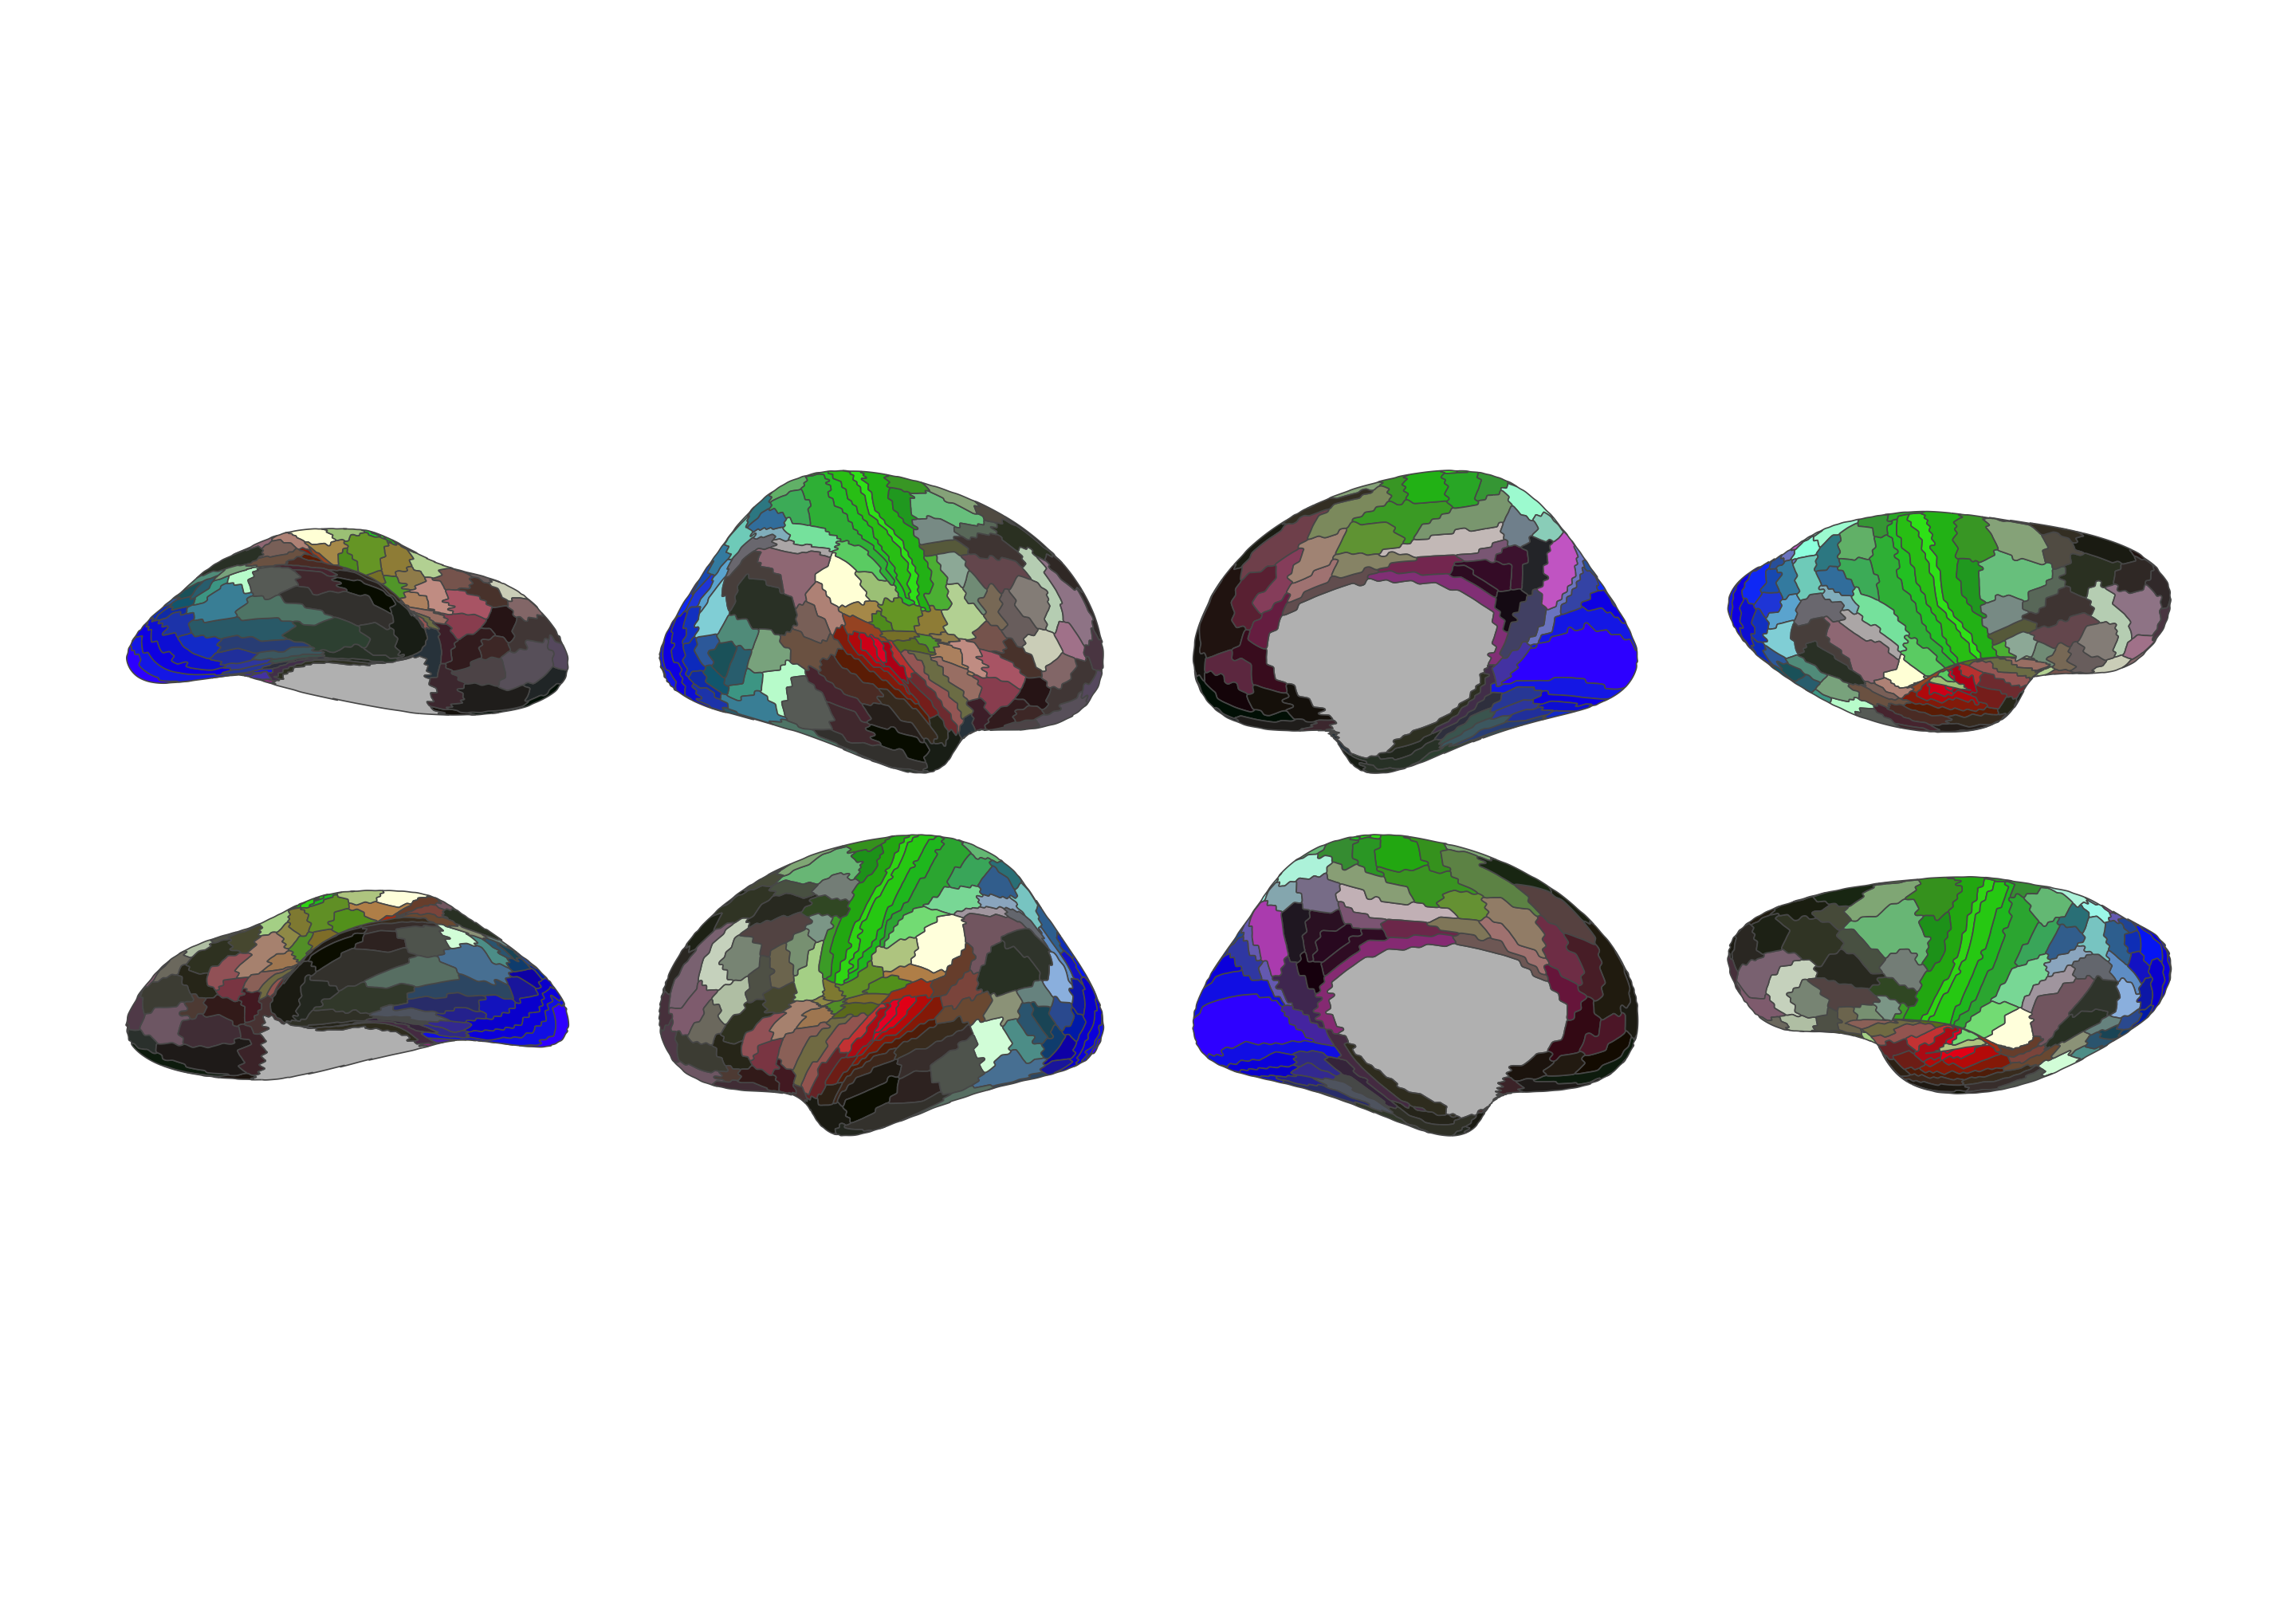
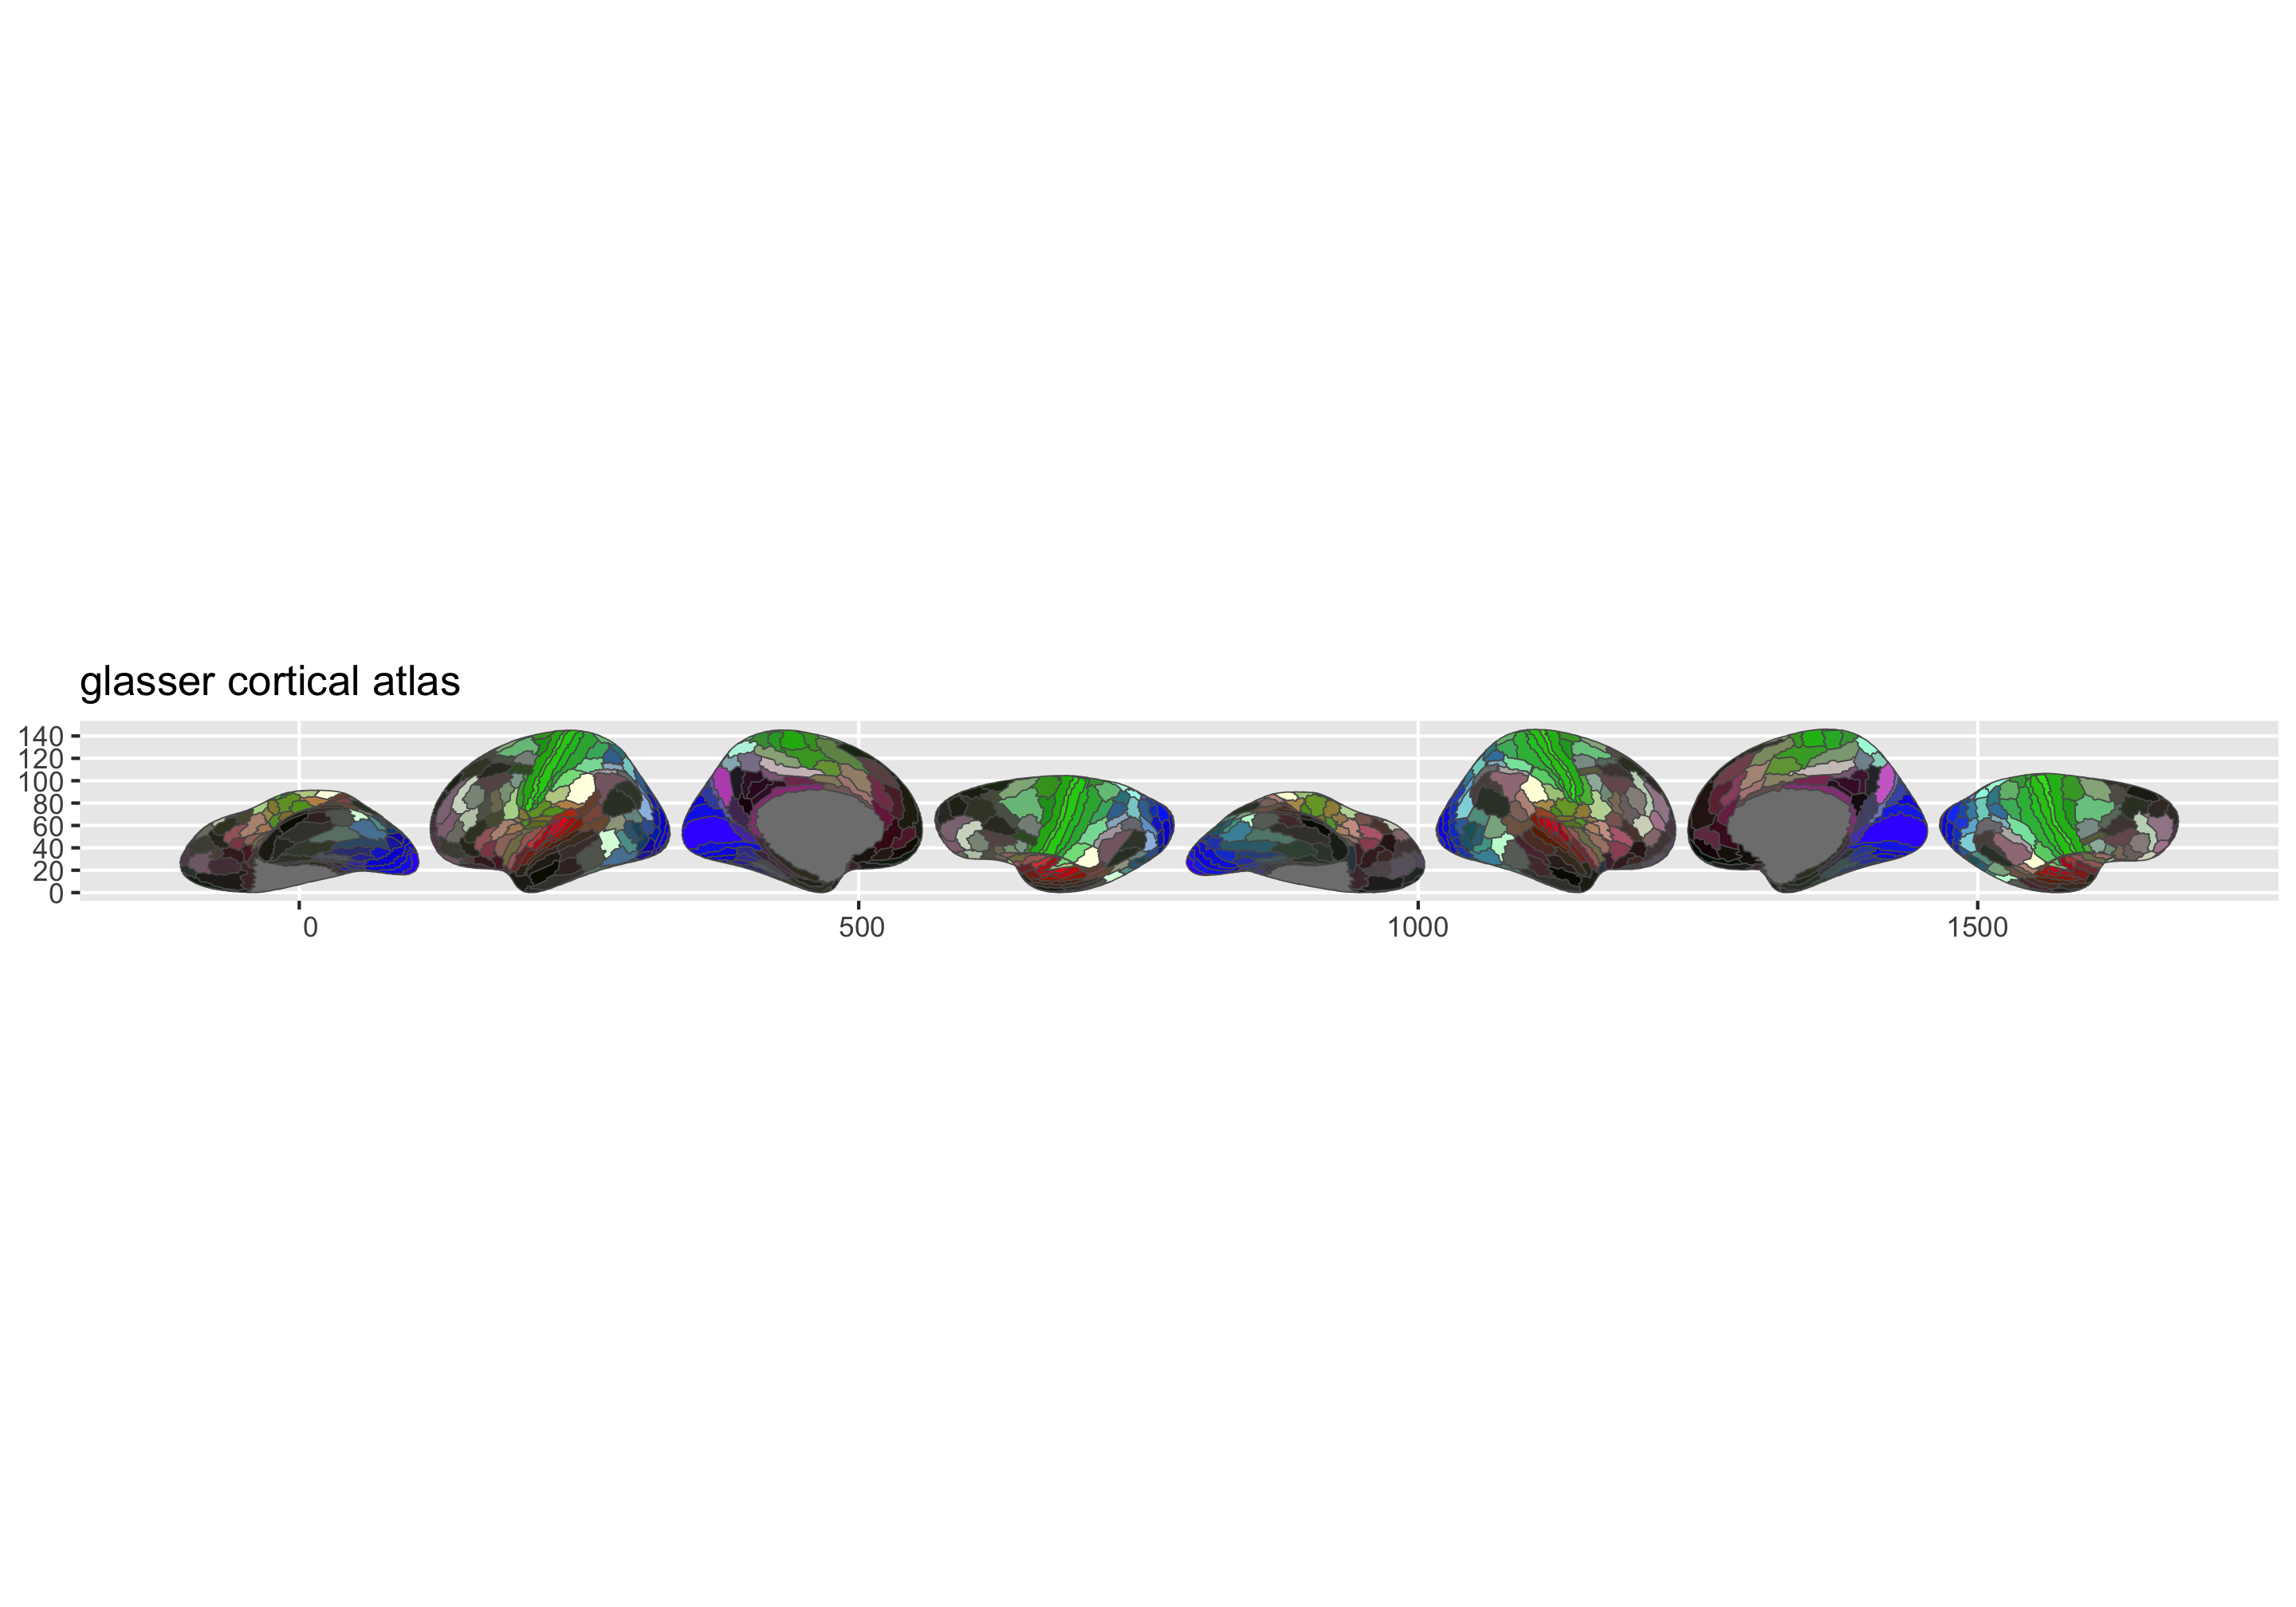
Deploying to gh-pages from @ ggsegverse/ggsegGlasser@c4f44cbb4502c0351be99adf17538b2d463720ca 🚀

Changed region(s): [[0.0, 0.2812, 1.0, 0.7188]]

diff --git a/index.html b/index.html
@@ -96,17 +96,8 @@
 <div class="sourceCode" id="cb3"><pre class="downlit sourceCode r">
 <code class="sourceCode R"><span><span class="kw"><a href="https://rdrr.io/r/base/library.html" class="external-link">library</a></span><span class="op">(</span><span class="va"><a href="https://ggsegverse.github.io/ggseg/" class="external-link">ggseg</a></span><span class="op">)</span></span>
 <span><span class="kw"><a href="https://rdrr.io/r/base/library.html" class="external-link">library</a></span><span class="op">(</span><span class="va"><a href="https://github.com/ggsegverse/ggsegGlasser" class="external-link">ggsegGlasser</a></span><span class="op">)</span></span>
-<span><span class="kw"><a href="https://rdrr.io/r/base/library.html" class="external-link">library</a></span><span class="op">(</span><span class="va"><a href="https://ggplot2.tidyverse.org" class="external-link">ggplot2</a></span><span class="op">)</span></span>
 <span></span>
-<span><span class="fu"><a href="https://ggplot2.tidyverse.org/reference/ggplot.html" class="external-link">ggplot</a></span><span class="op">(</span><span class="op">)</span> <span class="op">+</span></span>
-<span>  <span class="fu"><a href="https://ggsegverse.github.io/ggseg/reference/ggbrain.html" class="external-link">geom_brain</a></span><span class="op">(</span></span>
-<span>    atlas <span class="op">=</span> <span class="fu"><a href="reference/glasser.html">glasser</a></span><span class="op">(</span><span class="op">)</span>,</span>
-<span>    mapping <span class="op">=</span> <span class="fu"><a href="https://ggplot2.tidyverse.org/reference/aes.html" class="external-link">aes</a></span><span class="op">(</span>fill <span class="op">=</span> <span class="va">label</span><span class="op">)</span>,</span>
-<span>    position <span class="op">=</span> <span class="fu"><a href="https://ggsegverse.github.io/ggseg/reference/position_brain.html" class="external-link">position_brain</a></span><span class="op">(</span><span class="va">hemi</span> <span class="op">~</span> <span class="va">view</span><span class="op">)</span>,</span>
-<span>    show.legend <span class="op">=</span> <span class="cn">FALSE</span></span>
-<span>  <span class="op">)</span> <span class="op">+</span></span>
-<span>  <span class="fu"><a href="https://ggplot2.tidyverse.org/reference/scale_manual.html" class="external-link">scale_fill_manual</a></span><span class="op">(</span>values <span class="op">=</span> <span class="fu"><a href="reference/glasser.html">glasser</a></span><span class="op">(</span><span class="op">)</span><span class="op">$</span><span class="va">palette</span>, na.value <span class="op">=</span> <span class="st">"grey"</span><span class="op">)</span> <span class="op">+</span></span>
-<span>  <span class="fu"><a href="https://ggplot2.tidyverse.org/reference/ggtheme.html" class="external-link">theme_void</a></span><span class="op">(</span><span class="op">)</span></span></code></pre></div>
+<span><span class="fu"><a href="https://rdrr.io/r/graphics/plot.default.html" class="external-link">plot</a></span><span class="op">(</span><span class="fu"><a href="reference/glasser.html">glasser</a></span><span class="op">(</span><span class="op">)</span><span class="op">)</span></span></code></pre></div>
 <p><img src="reference/figures/README-glasser-1.png" style="width:100.0%"></p>
 </div>
 <div class="section level2">

diff --git a/index.md b/index.md
@@ -34,17 +34,8 @@ pak::pak("ggsegverse/ggsegGlasser")
 ``` r
 library(ggseg)
 library(ggsegGlasser)
-library(ggplot2)
 
-ggplot() +
-  geom_brain(
-    atlas = glasser(),
-    mapping = aes(fill = label),
-    position = position_brain(hemi ~ view),
-    show.legend = FALSE
-  ) +
-  scale_fill_manual(values = glasser()$palette, na.value = "grey") +
-  theme_void()
+plot(glasser())
 ```
 
 ![](reference/figures/README-glasser-1.png)